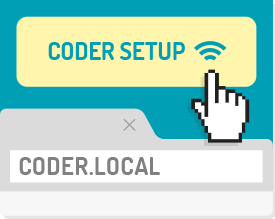
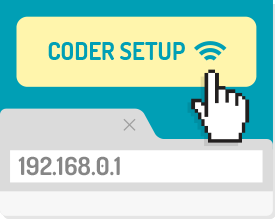
copy updates for clarity

Changed region(s): [[0.0582, 0.7123, 0.5818, 0.8219]]

diff --git a/index.html b/index.html
@@ -64,14 +64,19 @@
         <div class="setup instructions">
             <div class="switchpanel wired">
                 <div class="step"><img src="assets/images/download.png" /><div class="stepnum">1.</div><p><a href="#download" class="animate">Download</a>, unzip, and run the Coder Installer. You'll need a 4GB SD Card.</p><p>Mac users, just run the provided installer.<br />PC users, check out our <a href="#windows" class="animate">Windows-specific Instructions</a> for more installation details.</p></div>
-                <div class="step"><img src="assets/images/sdcard.png" /><div class="stepnum">2.</div><p>Insert your new Coder SD card into your Pi, make sure your Pi and your computer are plugged into the network, and power it up.</p><p>Give your Pi a minute to start up and then move on to step 3.</p></div>
-                <div class="step last"><img src="assets/images/wired.png" /><div class="stepnum">3.</div><p>Visit coder.local in Chrome to connect to your new Coder and start&nbsp;playing.</p></div>
+                <div class="step"><img src="assets/images/sdcard.png" /><div class="stepnum">2.</div><p>Insert your new Coder SD card into your Pi, make sure your Pi and your computer are plugged into the network, and power it up.</p><p>The Pi will be your new web server. Give it a minute to start up and then move on to step 3.</p></div>
+                <div class="step last"><img src="assets/images/wired.png" /><div class="stepnum">3.</div><p>On your computer, visit http://coder.local/ in Chrome to connect to your new Coder and start&nbsp;playing.</p>
+                    <p style="margin-top:1.5em">[Note: You will see a warning about Coder's certificate. Unlike a public server, Coder lives on your local network with a private url, so it cannot verified by your browser. Click "proceed anyway".]
+                    </p>
+                </div>
                 <div class="clear"></div>
             </div>
             <div class="switchpanel wifi">
                 <div class="step"><img src="assets/images/download.png" /><div class="stepnum">1.</div><p><a href="#download" class="animate">Download</a> and run the Coder Installer with any 4GB SD Card.</p><p>Mac users, just run the provided installer.<br />PC users, check out our <a href="#windows" class="animate">Windows-specific Instructions</a> for more installation details.</p></div>
-                <div class="step"><img src="assets/images/sdcard.png" /><div class="stepnum">2.</div><p>Insert your new Coder SD card into your Pi, make sure your WiFi module is plugged in, and power it up.</p><p>Give your Pi a minute to start up and then move on to step 3.</p></div>
-                <div class="step last"><img src="assets/images/wifi.png" /><div class="stepnum">3.</div><p>Join the new WiFi network "CoderConfig," then visit coder.local in Chrome, and follow the on-screen instructions.</p></div>
+                <div class="step"><img src="assets/images/sdcard.png" /><div class="stepnum">2.</div><p>Insert your new Coder SD card into your Pi, make sure your WiFi module is plugged in, and power it up.</p><p>The Pi will be your new web server. Give it a minute to start up and then move on to step 3.</p></div>
+                <div class="step last"><img src="assets/images/wifi.png" /><div class="stepnum">3.</div><p>On your cmoputer, join the new WiFi network "CoderConfig," then visit http://192.168.0.1/ in Chrome, and follow the on-screen instructions.</p>
+                    <p style="margin-top:1.5em">[Note: You will see a warning about Coder's certificate. Unlike a public server, Coder lives on your local network with a private url, so it cannot verified by your browser. Click "proceed anyway".]
+                </div>
                 <div class="clear"></div>
             </div>
         </div>
@@ -208,7 +213,8 @@
         </div>
         <div class="faq rollup">
             <h3>I’ve never coded before. How do I get started?</h3>
-            <p>There are a ton of resources for learning HTML, CSS and Javascript&mdash;<a class="trackout" href="http://www.codecademy.com/">Codecademy</a> and <a class="trackout" href="https://www.khanacademy.org/cs/tutorials/programming-basics">Khan Academy</a>, to name two&mdash;and you can use Coder to accompany this instruction as you experiment with making your own programs. When you're ready to get started, read through the included Hello Coder application to aquaint yourself with how a Coder program works.</p>
+            <p>To help you get started, we've put together <a href="http://googlecreativelab.github.io/coder-projects/">Coder Projects</a>: simple, fun, and sneakily educational things that can all be made with Coder and Raspberry Pi. There are also a ton of resources for learning HTML, CSS and Javascript&mdash;<a class="trackout" href="http://www.codecademy.com/">Codecademy</a> and <a class="trackout" href="https://www.khanacademy.org/cs/tutorials/programming-basics">Khan
+                Academy</a>, to name two&mdash;and you can use Coder to accompany this instruction as you experiment with making your own programs. </p>
         </div>
         <div class="faq rollup">
             <h3>Can I share my Coder projects with other people?</h3>
